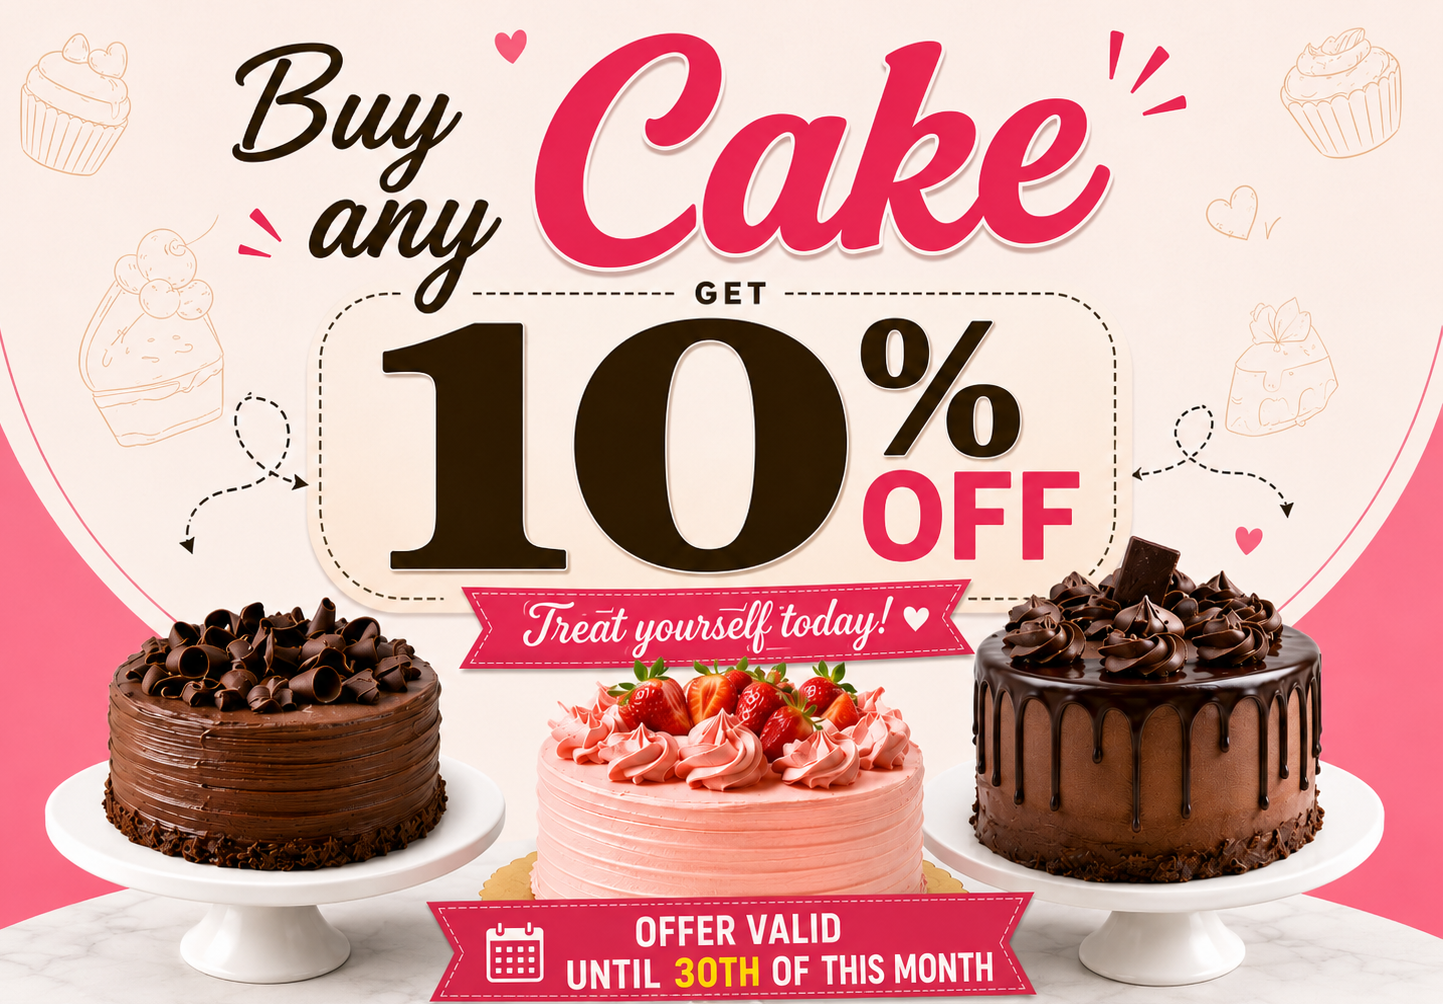
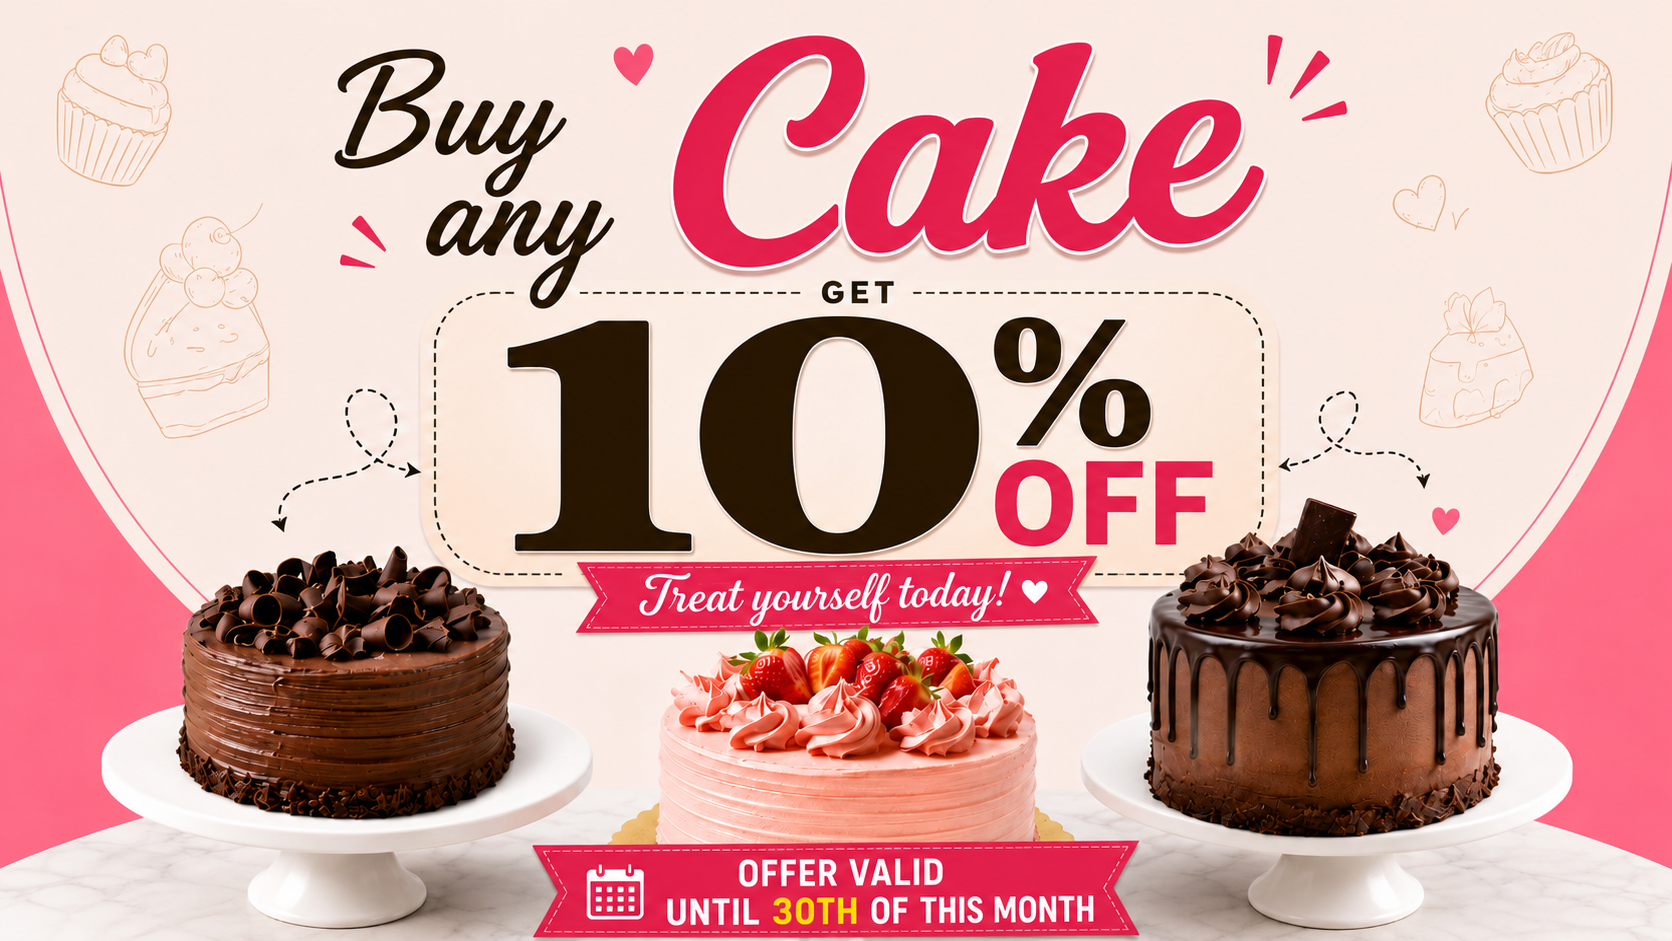
Add GSAP scroll-scrubbed hero frame sequence, trim menu categories
Replace the static hero image with a 96-frame scroll-scrubbed animation
(GSAP + ScrollTrigger) with a headline/typewriter-subheadline/CTA reveal
sequence, constant wave masks framing the video, and a loading fallback.
Also removes the cart-less "Add" buttons and tags from Guest Favourites,
swaps the brownie entry for an actual menu item, and drops the Desserts
tile from the category grid since it isn't a real menu section.

diff --git a/index.html b/index.html
@@ -12,6 +12,8 @@
 <link href="https://fonts.googleapis.com/css2?family=DM+Sans:opsz,wght@9..40,400;9..40,500;9..40,600;9..40,700&family=Caveat:wght@600;700&display=swap" rel="stylesheet">
 
 <script src="https://cdn.tailwindcss.com"></script>
+<script src="https://cdnjs.cloudflare.com/ajax/libs/gsap/3.12.5/gsap.min.js"></script>
+<script src="https://cdnjs.cloudflare.com/ajax/libs/gsap/3.12.5/ScrollTrigger.min.js"></script>
 <script>
   tailwind.config = {
     theme: {
@@ -95,6 +97,24 @@
   .ptable tbody tr:hover td { background:rgba(20,67,46,.045); }
   .vdot { display:inline-block; width:9px; height:9px; border-radius:50%; background:#1E9E52; margin-right:8px; flex-shrink:0; box-shadow:0 0 0 2px rgba(30,158,82,.18); vertical-align:middle; }
 
+  /* ── Hero frame-sequence scroller ── */
+  .hero-wave { line-height:0; }
+  .hero-wave svg { display:block; width:100%; height:56px; }
+  @media (min-width:768px){ .hero-wave svg { height:81px; } }
+  #hero-canvas { opacity:0; transition:opacity .4s ease; }
+  #hero-canvas.ready { opacity:1; }
+  #hero-loader { transition:opacity .4s ease; }
+  #hero-h1  { text-shadow: 0 8px 30px rgba(0,0,0,.55), 0 2px 10px rgba(0,0,0,.5); }
+  #hero-sub { text-shadow: 0 8px 26px rgba(0,0,0,.65), 0 2px 8px rgba(0,0,0,.5); }
+  #hero-overlay.hero-anim #hero-headline-wrap,
+  #hero-overlay.hero-anim #hero-sub-wrap,
+  #hero-overlay.hero-anim #hero-cta-wrap {
+    position:absolute; inset:0; display:flex; flex-direction:column; align-items:center; padding:0 1.25rem;
+  }
+  #hero-overlay.hero-anim #hero-headline-wrap { justify-content:flex-start; padding-top:clamp(72px,16vh,168px); }
+  #hero-overlay.hero-anim #hero-sub-wrap { justify-content:center; opacity:0; }
+  #hero-overlay.hero-anim #hero-cta-wrap { justify-content:flex-end; padding-bottom:clamp(64px,10vh,110px); opacity:0; }
+
   @media (prefers-reduced-motion: reduce) {
     *, *::before, *::after { animation-duration:.01ms !important; animation-iteration-count:1 !important; transition-duration:.01ms !important; scroll-behavior:auto !important; }
     .reveal { opacity:1; transform:none; }
@@ -144,46 +164,54 @@
 
 <span id="top"></span>
 
-<!-- seam: nav (cream) → hero (forest) -->
-<div class="seam bg-cream"><svg viewBox="0 0 1440 100" preserveAspectRatio="none"><path d="M0,40 C180,90 320,10 480,45 C640,80 760,95 900,55 C1040,15 1180,10 1320,40 C1380,52 1410,58 1440,50 L1440,100 L0,100 Z" fill="#14432E"></path></svg></div>
+<!-- ══════════════ HERO (scroll-scrubbed frame sequence) ══════════════ -->
+<section id="hero" class="relative overflow-hidden bg-forest h-screen">
+  <canvas id="hero-canvas" class="absolute inset-0 w-full h-full block"></canvas>
 
-<!-- ══════════════ HERO ══════════════ -->
-<section class="relative overflow-hidden bg-forest">
-  <div class="max-w-7xl mx-auto px-5 lg:px-8 pt-6 pb-16 lg:pb-24 relative z-10">
-    <div class="grid lg:grid-cols-2 gap-10 lg:gap-6 items-center">
-      <div class="text-center lg:text-left order-2 lg:order-1">
-        <h1 class="font-display font-black text-cream mt-1 mb-5 leading-[1.02]" style="font-size:clamp(38px,6.4vw,62px);letter-spacing:-.03em;">
-          Exciting treats, freshly baked <span class="text-marigold">daily</span>.
-        </h1>
-        <p class="text-cream/75 text-[15px] leading-relaxed max-w-md mx-auto lg:mx-0 mb-8">
-          From Delhi-style chaap to wood-fired pizza and molten brownies — crafted with love, the finest ingredients, and a proper London accent.
-        </p>
-        <div class="flex flex-col sm:flex-row gap-3 justify-center lg:justify-start mb-9">
-          <a href="#menu" class="btn-burnt text-white font-bold uppercase tracking-[.06em] text-[12px] px-7 py-4 rounded-xl">Explore the Menu</a>
-          <a href="tel:[phone redacted]" class="btn-ghost border border-cream/35 text-cream font-bold uppercase tracking-[.06em] text-[12px] px-7 py-4 rounded-xl hover:border-cream/70">Call to Order</a>
+  <!-- constant wave frame, top — an opaque cream mask over the video so the wave never has to color-match a frame -->
+  <div class="hero-wave absolute top-0 left-0 w-full z-[6] pointer-events-none"><svg viewBox="0 0 1440 100" preserveAspectRatio="none"><path d="M0,40 C180,90 320,10 480,45 C640,80 760,95 900,55 C1040,15 1180,10 1320,40 C1380,52 1410,58 1440,50 L1440,0 L0,0 Z" fill="#FBF6EC"></path></svg></div>
+
+  <!-- constant wave frame, bottom — an opaque sage mask, matches the Offers section below with zero dependency on the video -->
+  <div class="hero-wave absolute bottom-0 left-0 w-full z-[6] pointer-events-none"><svg viewBox="0 0 1440 100" preserveAspectRatio="none"><path d="M0,55 C160,15 300,95 460,60 C620,25 740,10 880,50 C1020,90 1160,95 1300,60 C1370,45 1410,35 1440,45 L1440,100 L0,100 Z" fill="#E7EFDD"></path></svg></div>
+
+  <div id="hero-loader" class="absolute inset-0 z-20 grid place-items-center bg-forest/95">
+    <div class="w-9 h-9 border-2 border-cream/25 border-t-cream rounded-full animate-spin"></div>
+  </div>
+
+  <div id="hero-overlay" class="absolute inset-0 z-10 px-5 flex flex-col items-center justify-center text-center">
+    <div id="hero-headline-wrap">
+      <h1 id="hero-h1" class="font-display font-black text-white leading-[1.02]" style="font-size:clamp(44px,7.6vw,78px);letter-spacing:-.03em;">
+        Exciting treats, freshly baked <span class="text-marigold">daily</span>.
+      </h1>
+    </div>
+
+    <div id="hero-sub-wrap" class="max-w-2xl mx-auto">
+      <p id="hero-sub" class="font-display font-bold text-white leading-snug">
+        <span id="hero-sub-inner" style="display:inline-block;font-size:clamp(24px,4.2vw,42px);">From Delhi-style chaap to wood-fired pizza and molten brownies — crafted with love, the finest ingredients, and a proper London accent.</span>
+      </p>
+    </div>
+
+    <div id="hero-cta-wrap">
+      <div class="bg-black/35 backdrop-blur-md rounded-3xl px-6 py-6 sm:px-8 sm:py-7" style="box-shadow:0 20px 50px -20px rgba(0,0,0,.6);">
+      <div class="flex flex-col sm:flex-row gap-3 justify-center mb-6 mt-0">
+        <a href="#menu" class="btn-burnt text-white font-bold uppercase tracking-[.06em] text-[12px] px-7 py-4 rounded-xl">Explore the Menu</a>
+        <a href="tel:[phone redacted]" class="btn-ghost border-2 border-white/70 bg-white/10 text-white font-bold uppercase tracking-[.06em] text-[12px] px-7 py-4 rounded-xl hover:border-white hover:bg-white/20">Call to Order</a>
+      </div>
+      <div class="flex items-center gap-3.5 justify-center">
+        <div class="flex">
+          <span class="w-8 h-8 rounded-full bg-gold border-2 border-forest"></span>
+          <span class="w-8 h-8 rounded-full bg-burnt border-2 border-forest -ml-2.5"></span>
+          <span class="w-8 h-8 rounded-full bg-sage border-2 border-forest -ml-2.5"></span>
         </div>
-        <div class="flex items-center gap-3.5 justify-center lg:justify-start">
-          <div class="flex">
-            <span class="w-8 h-8 rounded-full bg-gold border-2 border-forest"></span>
-            <span class="w-8 h-8 rounded-full bg-burnt border-2 border-forest -ml-2.5"></span>
-            <span class="w-8 h-8 rounded-full bg-sage border-2 border-forest -ml-2.5"></span>
-          </div>
-          <div class="text-left">
-            <div class="text-marigold tracking-[3px] text-[13px] leading-none">★★★★★</div>
-            <div class="text-cream/70 text-[11px] mt-1"><strong class="text-cream">4.9</strong> · 1,200+ happy guests</div>
-          </div>
+        <div class="text-left">
+          <div class="text-marigold tracking-[3px] text-[13px] leading-none" style="text-shadow:0 2px 8px rgba(0,0,0,.6);">★★★★★</div>
+          <div class="text-white/90 text-[11px] mt-1" style="text-shadow:0 2px 8px rgba(0,0,0,.6);"><strong class="text-white">4.9</strong> · 1,200+ happy guests</div>
         </div>
       </div>
-
-      <div class="order-1 lg:order-2 relative flex items-center justify-center min-h-[300px] lg:min-h-[480px]">
-        <img src="dishes/pizza-hero-pull.png" alt="Stone-baked paneer margherita pizza with a cheesy pull" class="relative z-10 w-full max-w-[680px] drop-shadow-[0_30px_50px_rgba(0,0,0,.45)]">
       </div>
     </div>
   </div>
 </section>
-
-<!-- seam: hero (forest) → offers (sage) -->
-<div class="seam bg-forest"><svg viewBox="0 0 1440 100" preserveAspectRatio="none"><path d="M0,55 C160,15 300,95 460,60 C620,25 740,10 880,50 C1020,90 1160,95 1300,60 C1370,45 1410,35 1440,45 L1440,100 L0,100 Z" fill="#E7EFDD"></path></svg></div>
 
 <!-- ══════════════ OFFERS ══════════════ -->
 <section id="offer" class="bg-sage pt-2 pb-12">
@@ -191,8 +219,9 @@
     <div class="text-center mb-8 reveal">
       <h2 class="font-display font-bold text-ink" style="font-size:clamp(26px,3.6vw,34px);letter-spacing:-.02em">This month's offers</h2>
     </div>
-    <div class="grid md:grid-cols-2 gap-4 lg:gap-6 items-start reveal max-w-4xl mx-auto">
-      <!-- Left: pizza (portrait) -->
+    <div class="grid md:grid-cols-[1fr_1.2fr] gap-4 lg:gap-6 items-start reveal max-w-4xl mx-auto">
+
+    <!-- Left: pizza (portrait) -->
       <a href="tel:[phone redacted]" class="lift block rounded-3xl overflow-hidden shadow-[0_18px_44px_-20px_rgba(28,20,12,.5)]">
         <img src="offers/offer-2.png" alt="Special offer — buy any large pizza, get a small pizza free" class="block w-full h-auto">
       </a>
@@ -218,7 +247,7 @@
     <div class="text-center mb-9 reveal">
       <h2 class="font-display font-bold text-ink" style="font-size:clamp(26px,3.6vw,34px);letter-spacing:-.02em">Browse the menu</h2>
     </div>
-    <div class="grid grid-cols-2 sm:grid-cols-3 lg:grid-cols-6 gap-3.5 lg:gap-4">
+    <div class="grid grid-cols-2 sm:grid-cols-3 lg:grid-cols-5 gap-3.5 lg:gap-4">
       <a href="#tab-pizza" data-cat="pizza" class="tile cat-link bg-white rounded-3xl p-4 text-center shadow-[0_3px_14px_rgba(28,20,12,.06)] reveal">
         <div class="w-[72px] h-[72px] mx-auto mb-3.5 rounded-2xl overflow-hidden bg-white grid place-items-center"><img src="dishes/pizza.png" class="w-full h-full object-contain" alt="Pizza"></div>
         <p class="font-bold text-[14px]">Pizza</p><p class="text-mute text-[11.5px]">23 varieties</p>
@@ -230,10 +259,6 @@
       <a href="#tab-chaap" data-cat="chaap" class="tile cat-link bg-white rounded-3xl p-4 text-center shadow-[0_3px_14px_rgba(28,20,12,.06)] reveal">
         <div class="w-[72px] h-[72px] mx-auto mb-3.5 rounded-2xl overflow-hidden bg-white grid place-items-center"><img src="dishes/malai_chaap.png" class="w-full h-full object-contain" alt="Chaap"></div>
         <p class="font-bold text-[14px]">Chaap</p><p class="text-mute text-[11.5px]">5 varieties</p>
-      </a>
-      <a href="#menu" class="tile cat-link bg-white rounded-3xl p-4 text-center shadow-[0_3px_14px_rgba(28,20,12,.06)] reveal">
-        <div class="w-[72px] h-[72px] mx-auto mb-3.5 rounded-2xl overflow-hidden bg-white grid place-items-center"><img src="dishes/brownie.png" class="w-full h-full object-contain" alt="Desserts"></div>
-        <p class="font-bold text-[14px]">Desserts</p><p class="text-mute text-[11.5px]">11 varieties</p>
       </a>
       <a href="#tab-burgers" data-cat="burgers" class="tile cat-link bg-white rounded-3xl p-4 text-center shadow-[0_3px_14px_rgba(28,20,12,.06)] reveal">
         <div class="w-[72px] h-[72px] mx-auto mb-3.5 rounded-2xl overflow-hidden bg-white grid place-items-center"><img src="dishes/burger.png" class="w-full h-full object-contain" alt="Burgers"></div>
@@ -546,6 +571,168 @@
   "use strict";
   var reduce = window.matchMedia('(prefers-reduced-motion: reduce)').matches;
 
+  /* ── Hero frame-sequence scroller ── */
+  (function heroScroller(){
+    var TOTAL = 96;
+    var section = document.getElementById('hero');
+    var canvas  = document.getElementById('hero-canvas');
+    var loader  = document.getElementById('hero-loader');
+    var overlay = document.getElementById('hero-overlay');
+    var headlineWrap = document.getElementById('hero-headline-wrap');
+    var subWrap = document.getElementById('hero-sub-wrap');
+    var subInner = document.getElementById('hero-sub-inner');
+    var ctaWrap = document.getElementById('hero-cta-wrap');
+    if(!section || !canvas || !canvas.getContext) return;
+    var ctx = canvas.getContext('2d');
+
+    // split the subheadline into per-character spans so it can "type" in, scrubbed smoothly with scroll.
+    // letters are nested inside a word-level inline-block so only whole words wrap onto the next line, never mid-word.
+    var subChars = [];
+    if(subInner){
+      var text = subInner.textContent;
+      subInner.textContent = '';
+      var frag = document.createDocumentFragment();
+      var words = text.split(' ');
+      words.forEach(function(word, wi){
+        var wordSpan = document.createElement('span');
+        wordSpan.style.display = 'inline-block';
+        for(var k=0; k<word.length; k++){
+          var span = document.createElement('span');
+          span.style.display = 'inline-block';
+          span.textContent = word[k];
+          wordSpan.appendChild(span);
+          subChars.push(span);
+        }
+        frag.appendChild(wordSpan);
+        if(wi < words.length - 1) frag.appendChild(document.createTextNode(' '));
+      });
+      subInner.appendChild(frag);
+    }
+
+    function pad3(n){ return n < 10 ? '00'+n : (n < 100 ? '0'+n : ''+n); }
+
+    var images = new Array(TOTAL);
+    var loadedCount = 0;
+    var currentFrame = -1;
+
+    var ZOOM = 1.06; // zoom in just enough so the source watermark tag is cropped away
+    var ZOOM_BIAS = 0.3; // <0.5 shifts the crop window toward top-left, cutting more off the bottom-right corner
+
+    function drawFrame(i){
+      var img = images[i];
+      if(!img || !img.naturalWidth) return;
+      currentFrame = i;
+      var cw = canvas.width, ch = canvas.height;
+      var iw = img.naturalWidth, ih = img.naturalHeight;
+      var canvasRatio = cw/ch, imgRatio = iw/ih;
+      var sx, sy, sw, sh;
+      if(imgRatio > canvasRatio){ sh = ih; sw = ih*canvasRatio; sx = (iw-sw)/2; sy = 0; }
+      else { sw = iw; sh = iw/canvasRatio; sx = 0; sy = (ih-sh)/2; }
+      var sw2 = sw/ZOOM, sh2 = sh/ZOOM;
+      sx += (sw-sw2)*ZOOM_BIAS; sy += (sh-sh2)*ZOOM_BIAS;
+      sw = sw2; sh = sh2;
+      ctx.clearRect(0,0,cw,ch);
+      ctx.drawImage(img, sx, sy, sw, sh, 0, 0, cw, ch);
+    }
+
+    function resizeCanvas(){
+      var dpr = Math.min(window.devicePixelRatio || 1, 2);
+      var rect = section.getBoundingClientRect();
+      canvas.width = Math.round(rect.width * dpr);
+      canvas.height = Math.round(rect.height * dpr);
+      if(currentFrame >= 0) drawFrame(currentFrame);
+    }
+
+    function showStaticFallback(){
+      loader.style.display = 'none';
+      canvas.style.display = 'none';
+      if(subWrap) subWrap.style.opacity = 1;
+      subChars.forEach(function(c){ c.style.opacity = 1; });
+    }
+
+    var resizeTimer;
+    window.addEventListener('resize', function(){
+      clearTimeout(resizeTimer);
+      resizeTimer = setTimeout(function(){
+        resizeCanvas();
+        if(window.ScrollTrigger) ScrollTrigger.refresh();
+      }, 150);
+    });
+
+    if(!window.gsap || !window.ScrollTrigger){ showStaticFallback(); return; }
+    gsap.registerPlugin(ScrollTrigger);
+
+    resizeCanvas();
+
+    for(var i=0; i<TOTAL; i++){
+      (function(idx){
+        var img = new Image();
+        img.onload = function(){
+          images[idx] = img;
+          var finish = function(){
+            loadedCount++;
+            if(idx === 0){ resizeCanvas(); drawFrame(0); canvas.classList.add('ready'); }
+            if(loadedCount === TOTAL) allLoaded();
+          };
+          // fully decode off the main thread up front, so scrubbing never has to decode a frame on demand (the main cause of jitter)
+          if(img.decode){ img.decode().then(finish).catch(finish); }
+          else finish();
+        };
+        img.onerror = function(){ loadedCount++; if(loadedCount === TOTAL) allLoaded(); };
+        img.src = 'hero-frames/frame-' + pad3(idx+1) + '.jpg';
+      })(i);
+    }
+
+    function allLoaded(){
+      gsap.to(loader, { opacity:0, duration:.45, onComplete:function(){ loader.style.display = 'none'; } });
+
+      if(reduce){
+        canvas.classList.add('ready');
+        drawFrame(Math.floor(TOTAL/2));
+        if(subWrap) subWrap.style.opacity = 1;
+        subChars.forEach(function(c){ c.style.opacity = 1; });
+        return;
+      }
+
+      overlay.classList.add('hero-anim');
+
+      gsap.set(headlineWrap, { opacity:1 });
+      gsap.set(subWrap,       { opacity:0 });
+      gsap.set(subChars,      { opacity:0, y:6 });
+      gsap.set(ctaWrap,       { opacity:0 });
+
+      var tl = gsap.timeline({
+        scrollTrigger: {
+          trigger: section,
+          start: 'top top',
+          end: '+=250%',
+          scrub: 0.35,
+          pin: true,
+          anticipatePin: 1,
+          onUpdate: function(self){
+            var idx = Math.round(self.progress * (TOTAL - 1));
+            if(idx !== currentFrame) drawFrame(idx);
+          }
+        }
+      });
+
+      // typewriter: each character fades+lifts in in sequence, spread evenly across the reveal window
+      var typeDuration = .34;
+      var charDur = Math.min(.05, typeDuration);
+      var charStagger = subChars.length > 1 ? (typeDuration - charDur) / (subChars.length - 1) : 0;
+
+      // 1. headline holds, then fades away
+      tl.to(headlineWrap, { opacity:0, duration:.12, ease:'power1.in' }, .20)
+        // 2. subheadline container fades in, then "types out" character by character
+        .to(subWrap,       { opacity:1, duration:.05 }, .32)
+        .to(subChars,      { opacity:1, y:0, duration:charDur, stagger:charStagger, ease:'none' }, .34)
+        // 3. hold, then subheadline fades away
+        .to(subWrap,       { opacity:0, duration:.10 }, .80)
+        // 4. buttons + stars/review land at the very end, right as the sequence finishes
+        .to(ctaWrap,       { opacity:1, duration:.10 }, .90);
+    }
+  })();
+
   /* ── Nav shadow + mobile menu ── */
   var nav = document.getElementById('nav');
   var onScroll = function(){ nav.classList.toggle('scrolled', window.scrollY > 12); };
@@ -559,10 +746,10 @@
 
   /* ── Data ── */
   var favourites = [
-    { id:'pizza',   name:'Paneer Margherita',    tag:'Stone-Baked',     price:299, old:349, rating:'4.9', img:'dishes/pizza.png' },
-    { id:'momos',   name:'Steamed Paneer Momos', tag:'Handcrafted',     price:99,  old:null, rating:'4.8', img:'dishes/momos.png' },
-    { id:'chaap',   name:'Malai Soya Chaap',     tag:"Delhi's Special", price:159, old:null, rating:'4.9', img:'dishes/malai_chaap.png' },
-    { id:'brownie', name:'Hot Fudge Brownie',    tag:'Sweet Endings',   price:119, old:null, rating:'4.8', img:'dishes/brownie.png' }
+    { id:'pizza',  name:'Paneer Margherita',        price:299, old:349, rating:'4.9', img:'dishes/pizza.png' },
+    { id:'momos',  name:'Steamed Paneer Momos',     price:99,  old:null, rating:'4.8', img:'dishes/momos.png' },
+    { id:'chaap',  name:'Malai Soya Chaap',         price:159, old:null, rating:'4.9', img:'dishes/malai_chaap.png' },
+    { id:'burger', name:'Crunchy Aloo Tikki Cheese', price:69, old:null, rating:'4.8', img:'dishes/burger.png' }
   ];
   var testimonials = [
     { initial:'P', name:'Pushpa Bhagat',   role:'Verified guest', quote:'Crispy crust, rich sauce, generous toppings — never disappoints. A must-try for pizza lovers.' },
@@ -574,20 +761,11 @@
   ];
   var hours = [['Monday','10:30 am – 10:00 pm'],['Tuesday','10:30 am – 10:00 pm'],['Wednesday','10:30 am – 10:00 pm'],['Thursday','10:30 am – 10:00 pm'],['Friday','10:30 am – 10:00 pm'],['Saturday','10:30 am – 10:00 pm'],['Sunday','10:30 am – 10:00 pm']];
 
-  /* ── Cart / favourites render ── */
-  var cart = {};
+  /* ── Favourites render ── */
   var grid = document.getElementById('fav-grid');
   function priceStr(n){ return '₹' + n; }
   function renderFavourites(){
     grid.innerHTML = favourites.map(function(p){
-      var qty = cart[p.id] || 0;
-      var control = qty > 0
-        ? '<div class="flex items-center gap-1 bg-forest rounded-xl p-1">'
-          + '<button data-dec="'+p.id+'" aria-label="Remove one '+p.name+'" class="w-8 h-8 rounded-lg text-white text-lg font-bold hover:bg-white/10">−</button>'
-          + '<span class="min-w-[24px] text-center text-white font-bold text-[14px]">'+qty+'</span>'
-          + '<button data-inc="'+p.id+'" aria-label="Add one '+p.name+'" class="w-8 h-8 rounded-lg bg-burnt text-white text-lg font-bold hover:bg-burntdk">+</button>'
-          + '</div>'
-        : '<button data-add="'+p.id+'" class="bg-forest text-white text-[13px] font-bold px-5 py-2.5 rounded-xl hover:bg-burnt transition-colors">Add +</button>';
       var oldPrice = p.old ? '<span class="text-[13px] text-mute line-through">'+priceStr(p.old)+'</span>' : '';
       return ''
       + '<div class="lift bg-white rounded-3xl p-4 shadow-[0_3px_14px_rgba(28,20,12,.07)] flex flex-col">'
@@ -596,23 +774,11 @@
       +     '<span class="absolute top-3 left-3 w-5 h-5 rounded border-2 border-white grid place-items-center" style="background:#1E9E52;box-shadow:0 1px 4px rgba(0,0,0,.3)"><span class="w-2 h-2 rounded-full bg-white"></span></span>'
       +     '<span class="absolute top-3 right-3 text-[12px] font-bold text-marigold bg-ink/70 px-2.5 py-1 rounded-full backdrop-blur-sm">★ '+p.rating+'</span>'
       +   '</div>'
-      +   '<p class="mt-3.5 font-body font-bold text-[10.5px] tracking-[.12em] uppercase text-gold">'+p.tag+'</p>'
-      +   '<h3 class="font-display font-bold text-[18px] leading-tight mt-0.5 mb-3">'+p.name+'</h3>'
-      +   '<div class="mt-auto flex items-center justify-between">'
-      +     '<div class="flex items-baseline gap-1.5"><span class="font-display font-bold text-[22px] text-forest">'+priceStr(p.price)+'</span>'+oldPrice+'</div>'
-      +     control
-      +   '</div>'
+      +   '<h3 class="font-display font-bold text-[18px] leading-tight mt-3.5 mb-3">'+p.name+'</h3>'
+      +   '<div class="mt-auto flex items-baseline gap-1.5"><span class="font-display font-bold text-[22px] text-forest">'+priceStr(p.price)+'</span>'+oldPrice+'</div>'
       + '</div>';
     }).join('');
   }
-  grid.addEventListener('click', function(e){
-    var t = e.target.closest('[data-add],[data-inc],[data-dec]'); if(!t) return;
-    var add=t.getAttribute('data-add'), inc=t.getAttribute('data-inc'), dec=t.getAttribute('data-dec');
-    if(add){ cart[add]=(cart[add]||0)+1; }
-    else if(inc){ cart[inc]=(cart[inc]||0)+1; }
-    else if(dec){ var q=(cart[dec]||0)-1; if(q<=0) delete cart[dec]; else cart[dec]=q; }
-    renderFavourites();
-  });
   renderFavourites();
 
   /* ── Testimonials marquee (doubled for seamless loop) ── */